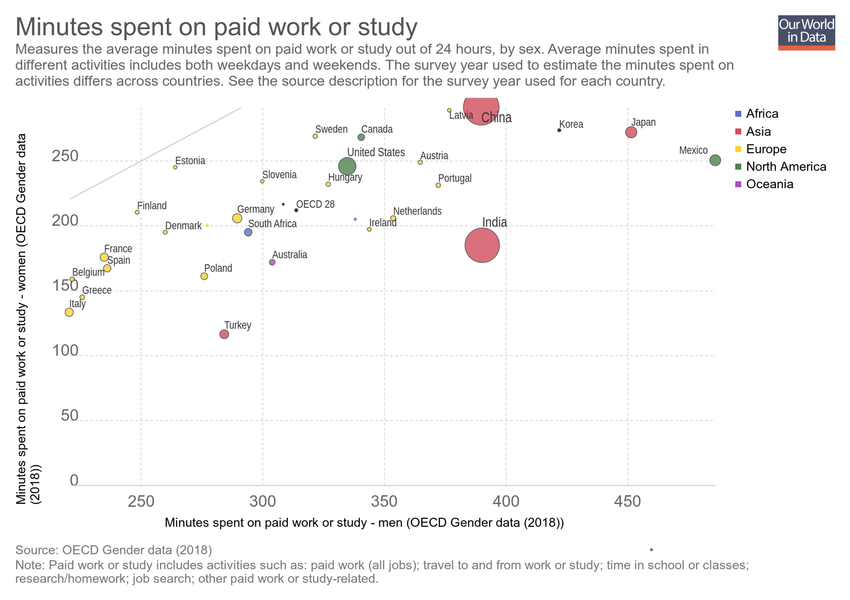
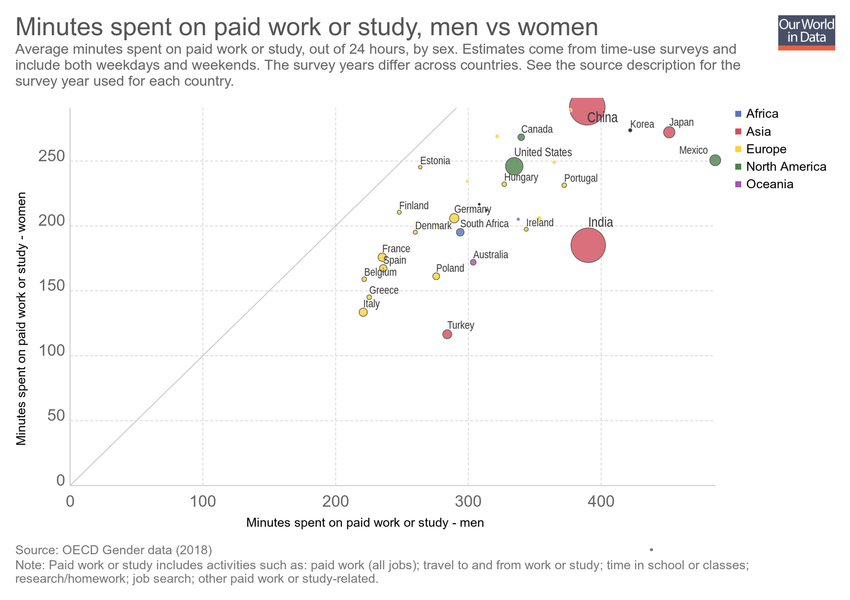
Updating chart minutes-spent-on-paid-work-or-study

diff --git a/grapher/minutes-spent-on-paid-work-or-study.html b/grapher/minutes-spent-on-paid-work-or-study.html
@@ -1,4 +1,4 @@
-<!doctype html><html><head><meta name="viewport" content="width=device-width, initial-scale=1" /><title>Minutes spent on paid work or study - Our World in Data</title><meta name="description" content="Measures the average minutes spent on paid work or study out of 24 hours, by sex. Average minutes spent in different activities includes both weekdays and weekends. The survey year used to estimate the minutes spent on activities differs across countries. See the source description for the survey year used for each country." /><link rel="canonical" href="https://ourworldindata.org/grapher/minutes-spent-on-paid-work-or-study" /><meta property="fb:app_id" content="1149943818390250" /><meta property="og:url" content="https://ourworldindata.org/grapher/minutes-spent-on-paid-work-or-study" /><meta property="og:title" content="Minutes spent on paid work or study" /><meta property="og:description" content="Measures the average minutes spent on paid work or study out of 24 hours, by sex. Average minutes spent in different activities includes both weekdays and weekends. The survey year used to estimate the minutes spent on activities differs across countries. See the source description for the survey year used for each country." /><meta property="og:image" content="https://ourworldindata.org/grapher/exports/minutes-spent-on-paid-work-or-study.png?v=21" /><meta property="og:image:width" content="850" /><meta property="og:image:height" content="600" /><meta property="og:site_name" content="Our World in Data" /><meta name="twitter:card" content="summary_large_image" /><meta name="twitter:site" content="@OurWorldInData" /><meta name="twitter:creator" content="@OurWorldInData" /><meta name="twitter:title" content="Minutes spent on paid work or study" /><meta name="twitter:description" content="Measures the average minutes spent on paid work or study out of 24 hours, by sex. Average minutes spent in different activities includes both weekdays and weekends. The survey year used to estimate the minutes spent on activities differs across countries. See the source description for the survey year used for each country." /><meta name="twitter:image" content="https://ourworldindata.org/grapher/exports/minutes-spent-on-paid-work-or-study.png?v=21" /><style>
+<!doctype html><html><head><meta name="viewport" content="width=device-width, initial-scale=1" /><title>Minutes spent on paid work or study, men vs women - Our World in Data</title><meta name="description" content="Average minutes spent on paid work or study, out of 24 hours, by sex. Estimates come from time-use surveys and include both weekdays and weekends. The survey years differ across countries. See the source description for the survey year used for each country." /><link rel="canonical" href="https://ourworldindata.org/grapher/minutes-spent-on-paid-work-or-study" /><meta property="fb:app_id" content="1149943818390250" /><meta property="og:url" content="https://ourworldindata.org/grapher/minutes-spent-on-paid-work-or-study" /><meta property="og:title" content="Minutes spent on paid work or study, men vs women" /><meta property="og:description" content="Average minutes spent on paid work or study, out of 24 hours, by sex. Estimates come from time-use surveys and include both weekdays and weekends. The survey years differ across countries. See the source description for the survey year used for each country." /><meta property="og:image" content="https://ourworldindata.org/grapher/exports/minutes-spent-on-paid-work-or-study.png?v=24" /><meta property="og:image:width" content="850" /><meta property="og:image:height" content="600" /><meta property="og:site_name" content="Our World in Data" /><meta name="twitter:card" content="summary_large_image" /><meta name="twitter:site" content="@OurWorldInData" /><meta name="twitter:creator" content="@OurWorldInData" /><meta name="twitter:title" content="Minutes spent on paid work or study, men vs women" /><meta name="twitter:description" content="Average minutes spent on paid work or study, out of 24 hours, by sex. Estimates come from time-use surveys and include both weekdays and weekends. The survey years differ across countries. See the source description for the survey year used for each country." /><meta name="twitter:image" content="https://ourworldindata.org/grapher/exports/minutes-spent-on-paid-work-or-study.png?v=24" /><style>
         html, body {
             height: 100%;
             margin: 0;
@@ -20,8 +20,8 @@
         }
     </style><noscript><style>
                     figure { display: none !important; }
-                </style></noscript><link rel="stylesheet" href="https://ourworldindata.org/grapher/assets/commons.bundle.dcbbe53805c487d5e57617b10ac73a8a.css" /><link rel="preload" href="/grapher/data/variables/96617+96612+72+123.json?v=21" as="fetch" crossorigin /></head><body class="singleChart"><figure data-grapher-src="/grapher/minutes-spent-on-paid-work-or-study"></figure><noscript id="fallback"><img src="/grapher/exports/minutes-spent-on-paid-work-or-study.svg" /><p>Interactive visualization requires JavaScript</p></noscript><script src="https://cdn.polyfill.io/v2/polyfill.min.js?features=es6,fetch"></script><script src="https://ourworldindata.org/grapher/assets/commons.bundle.43d139222ef978d52c09.js"></script><script src="https://ourworldindata.org/grapher/assets/charts.bundle.43d139222ef978d52c09.js"></script><script>
-        var jsonConfig = {"id":2538,"map":{"projection":"World","colorSchemeLabels":[],"colorSchemeValues":[],"colorSchemeMinValue":0,"customNumericColors":[],"customCategoryColors":{},"customCategoryLabels":{},"customHiddenCategories":{}},"tab":"chart","note":"Paid work or study includes activities such as: paid work (all jobs); travel to and from work or study;  time in school or classes; research/homework; job search; other paid work or study-related.","slug":"minutes-spent-on-paid-work-or-study","type":"ScatterPlot","title":"Minutes spent on paid work or study","xAxis":{"scaleType":"linear"},"yAxis":{"min":0,"scaleType":"linear"},"version":21,"subtitle":"Measures the average minutes spent on paid work or study out of 24 hours, by sex. Average minutes spent in different activities includes both weekdays and weekends. The survey year used to estimate the minutes spent on activities differs across countries. See the source description for the survey year used for each country.","hasMapTab":false,"stackMode":"absolute","dimensions":[{"display":{},"property":"y","variableId":96617},{"display":{},"property":"x","variableId":96612},{"display":{},"property":"size","variableId":72},{"display":{},"property":"color","variableId":123}],"hasChartTab":true,"isPublished":true,"selectedData":[],"addCountryMode":"change-country","comparisonLine":{},"hideTitleAnnotation":true};
+                </style></noscript><link rel="stylesheet" href="https://ourworldindata.org/grapher/assets/commons.bundle.dcbbe53805c487d5e57617b10ac73a8a.css" /><link rel="preload" href="/grapher/data/variables/96617+96612+72+123.json?v=24" as="fetch" crossorigin /></head><body class="singleChart"><figure data-grapher-src="/grapher/minutes-spent-on-paid-work-or-study"></figure><noscript id="fallback"><img src="/grapher/exports/minutes-spent-on-paid-work-or-study.svg" /><p>Interactive visualization requires JavaScript</p></noscript><script src="https://cdn.polyfill.io/v2/polyfill.min.js?features=es6,fetch"></script><script src="https://ourworldindata.org/grapher/assets/commons.bundle.43d139222ef978d52c09.js"></script><script src="https://ourworldindata.org/grapher/assets/charts.bundle.43d139222ef978d52c09.js"></script><script>
+        var jsonConfig = {"id":2538,"map":{"projection":"World","colorSchemeLabels":[],"colorSchemeValues":[],"colorSchemeMinValue":0,"customNumericColors":[],"customCategoryColors":{},"customCategoryLabels":{},"customHiddenCategories":{}},"tab":"chart","note":"Paid work or study includes activities such as: paid work (all jobs); travel to and from work or study;  time in school or classes; research/homework; job search; other paid work or study-related.","slug":"minutes-spent-on-paid-work-or-study","type":"ScatterPlot","title":"Minutes spent on paid work or study, men vs women","xAxis":{"min":0,"scaleType":"linear"},"yAxis":{"min":0,"scaleType":"linear"},"version":24,"subtitle":"Average minutes spent on paid work or study, out of 24 hours, by sex. Estimates come from time-use surveys and include both weekdays and weekends. The survey years differ across countries. See the source description for the survey year used for each country.","hasMapTab":false,"stackMode":"absolute","dimensions":[{"display":{"name":"Minutes spent on paid work or study - women"},"property":"y","variableId":96617},{"display":{"name":"Minutes spent on paid work or study - men"},"property":"x","variableId":96612},{"display":{},"property":"size","variableId":72},{"display":{},"property":"color","variableId":123}],"hasChartTab":true,"isPublished":true,"selectedData":[],"addCountryMode":"change-country","comparisonLine":{},"hideTitleAnnotation":true};
         var figure = document.getElementsByTagName("figure")[0];
         try {
             window.App = {};
